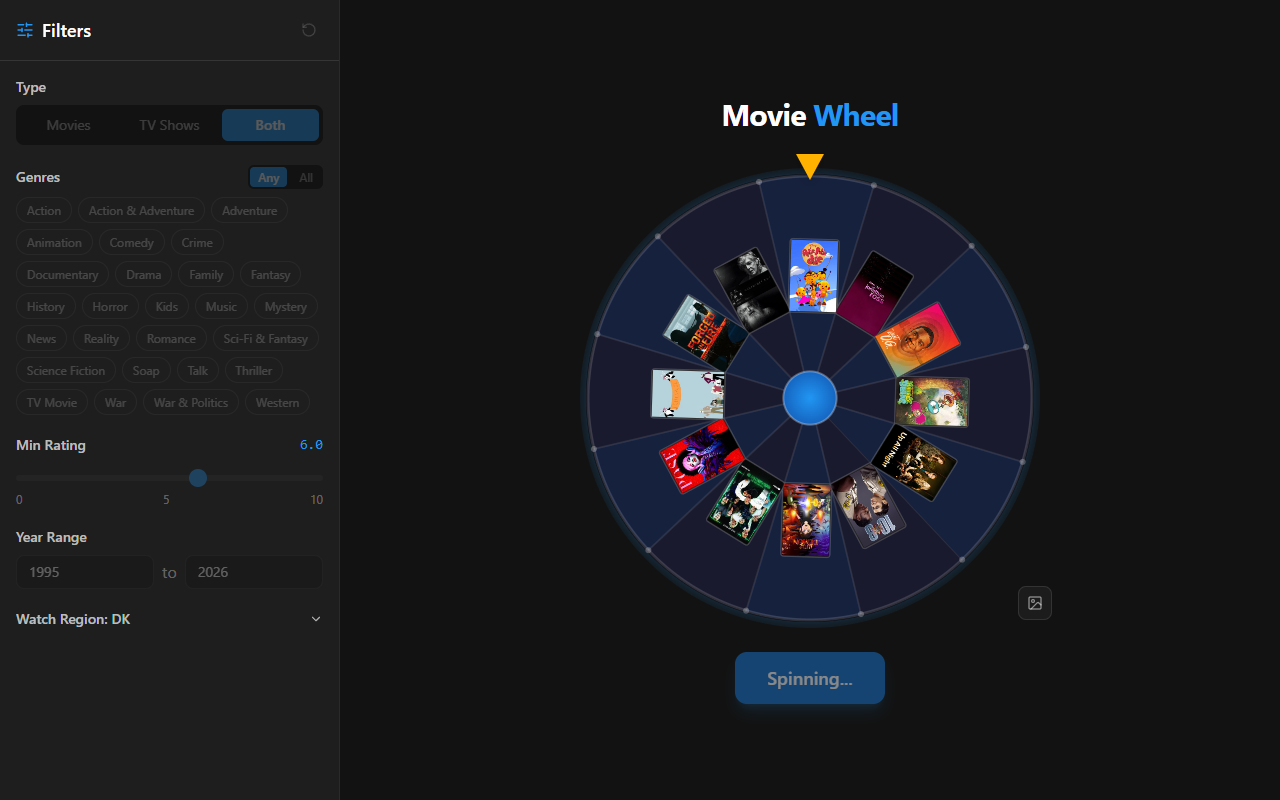
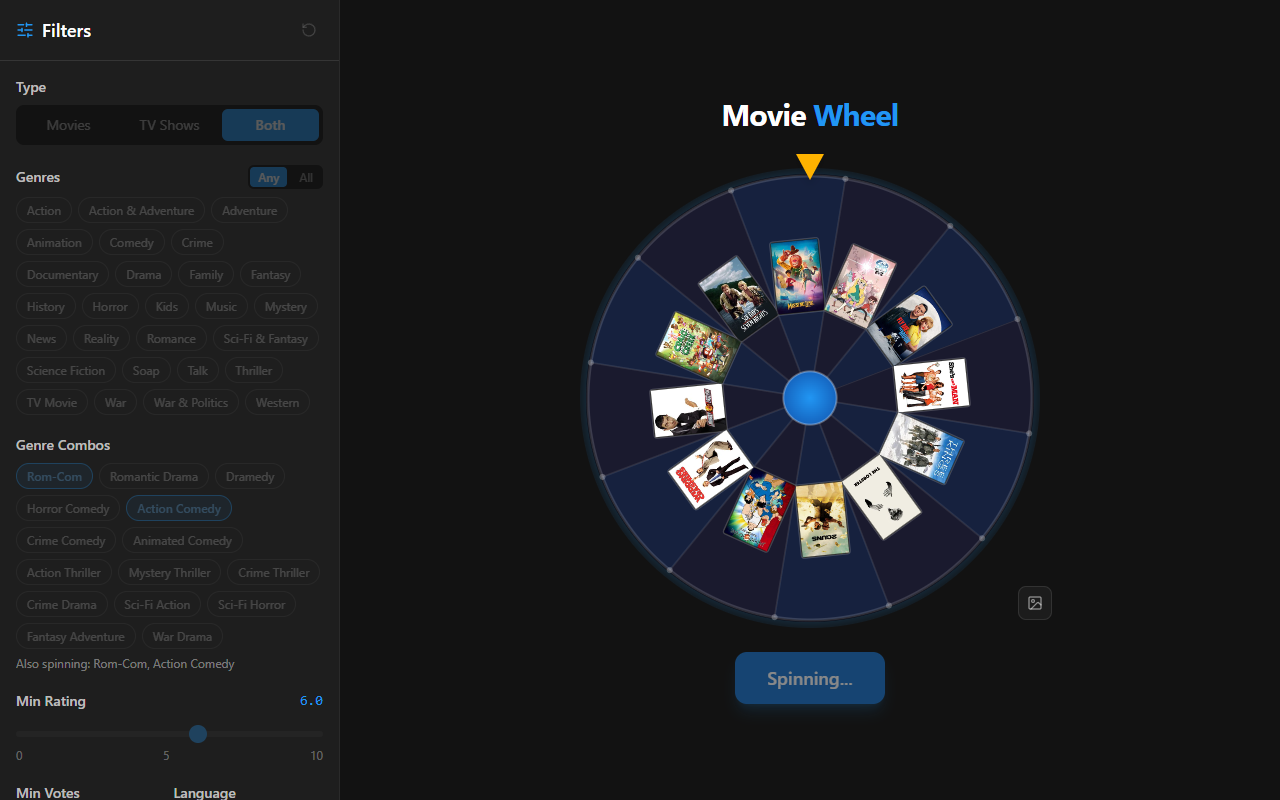
fix(wheel): query every selected combo so the wheel actually mixes them
The first discover page already fills 12 slots, so the loop stopped after
one selection. Now every selection (up to six) is visited, which also
mixes movies and TV under Both. Screenshots refreshed for the new filters.

diff --git a/src/services/api.test.ts b/src/services/api.test.ts
@@ -297,6 +297,48 @@ describe('fetchWheelCandidates with combos', () => {
     expect(calledUrl(fetchMock).searchParams.get('with_genres')).toBe('27,35');
   });
 
+  it('mixes titles from every selected combo, even when the first one fills the wheel', async () => {
+    const fetchMock = mockFetch(url => {
+      const base = url.searchParams.get('with_genres') === '27,35' ? 100 : 200;
+      return {
+        page: 1,
+        total_pages: 1,
+        total_results: 20,
+        results: Array.from({ length: 20 }, (_, i) => rawMovie(base + i)),
+      };
+    });
+    const genres = [
+      { name: 'Horror', movieId: 27, tvId: null },
+      { name: 'Comedy', movieId: 35, tvId: 35 },
+      { name: 'Romance', movieId: 10749, tvId: null },
+    ];
+
+    const res = await fetchWheelCandidates(
+      filters({ selectedCombos: ['Horror Comedy', 'Rom-Com'] }),
+      genres,
+      12
+    );
+
+    const requested = fetchMock.mock.calls.map((_, i) => calledUrl(fetchMock, i).searchParams.get('with_genres'));
+    expect(new Set(requested)).toEqual(new Set(['27,35', '10749,35']));
+    expect(res).toHaveLength(12);
+    expect(res.some(m => m.id < 200)).toBe(true);
+    expect(res.some(m => m.id >= 200)).toBe(true);
+  });
+
+  it('mixes movies and TV when both are selected', async () => {
+    mockFetch(url => ({
+      page: 1,
+      total_pages: 1,
+      total_results: 20,
+      results: Array.from({ length: 20 }, (_, i) => rawMovie((url.pathname.endsWith('/tv') ? 500 : 0) + i)),
+    }));
+
+    const res = await fetchWheelCandidates(filters({ mediaType: 'both' }), [], 12);
+
+    expect(new Set(res.map(m => m.media_type))).toEqual(new Set(['movie', 'tv']));
+  });
+
   it('skips fetching when no selection can match the media type', async () => {
     const fetchMock = mockFetch(() => ({}));
     const genres = [{ name: 'Romance', movieId: 10749, tvId: null }];

diff --git a/src/services/api.ts b/src/services/api.ts
@@ -270,7 +270,7 @@ export const buildGenreClauses = (
   return clauses;
 };
 
-const pickRandom = <T>(items: T[]): T => items[Math.floor(Math.random() * items.length)];
+const MAX_SELECTIONS_PER_SPIN = 6;
 
 const shuffle = <T>(items: T[]): T[] => {
   const out = [...items];
@@ -294,8 +294,14 @@ export const fetchWheelCandidates = async (
 
   const results: Media[] = [];
 
-  for (let attempt = 0; attempt < 5 && results.length < count; attempt++) {
-    const { type, clause } = pickRandom(options);
+  // Visit every selection (up to a cap) before stopping, otherwise the first page fills the
+  // wheel and multiple combos or "both" media types never actually mix
+  const order = shuffle(options);
+  const mustVisit = Math.min(order.length, MAX_SELECTIONS_PER_SPIN);
+  const maxAttempts = Math.max(5, mustVisit);
+
+  for (let attempt = 0; attempt < maxAttempts && (attempt < mustVisit || results.length < count); attempt++) {
+    const { type, clause } = order[attempt % order.length];
     const query: DiscoverQuery = {
       ...clause,
       minRating: filters.minRating,

diff --git a/README.md b/README.md
@@ -90,7 +90,7 @@ Optionally add `TMDB_READ_TOKEN` as a second secret. Without it, watch-provider 
 - The origin check only affects browsers. It stops other websites from using the proxy from their visitors' browsers. Scripts that don't send an `Origin` header can still call the allowed TMDB paths, up to the rate limit.
 - Caching: successful responses send `Cache-Control: max-age=300, s-maxage=300`, so browsers (and Vercel's CDN) cache them. The Worker doesn't use the Cloudflare Cache API.
 - Discovery sorts by popularity and only samples the first 100 result pages.
-- TMDB can't do "(A and B) or C" in one query, so each spin picks one genre selection or combo per request and mixes the results.
+- TMDB can't do "(A and B) or C" in one query, so each spin queries every genre selection and combo separately (up to six) and mixes the results. Same for movies vs TV when "Both" is picked.
 - TV has no Romance, Horror or Thriller genres on TMDB, so combos using them are greyed out for TV.
 - The wheel is a canvas animation with no text alternative for screen readers. Not great, I know.
 
